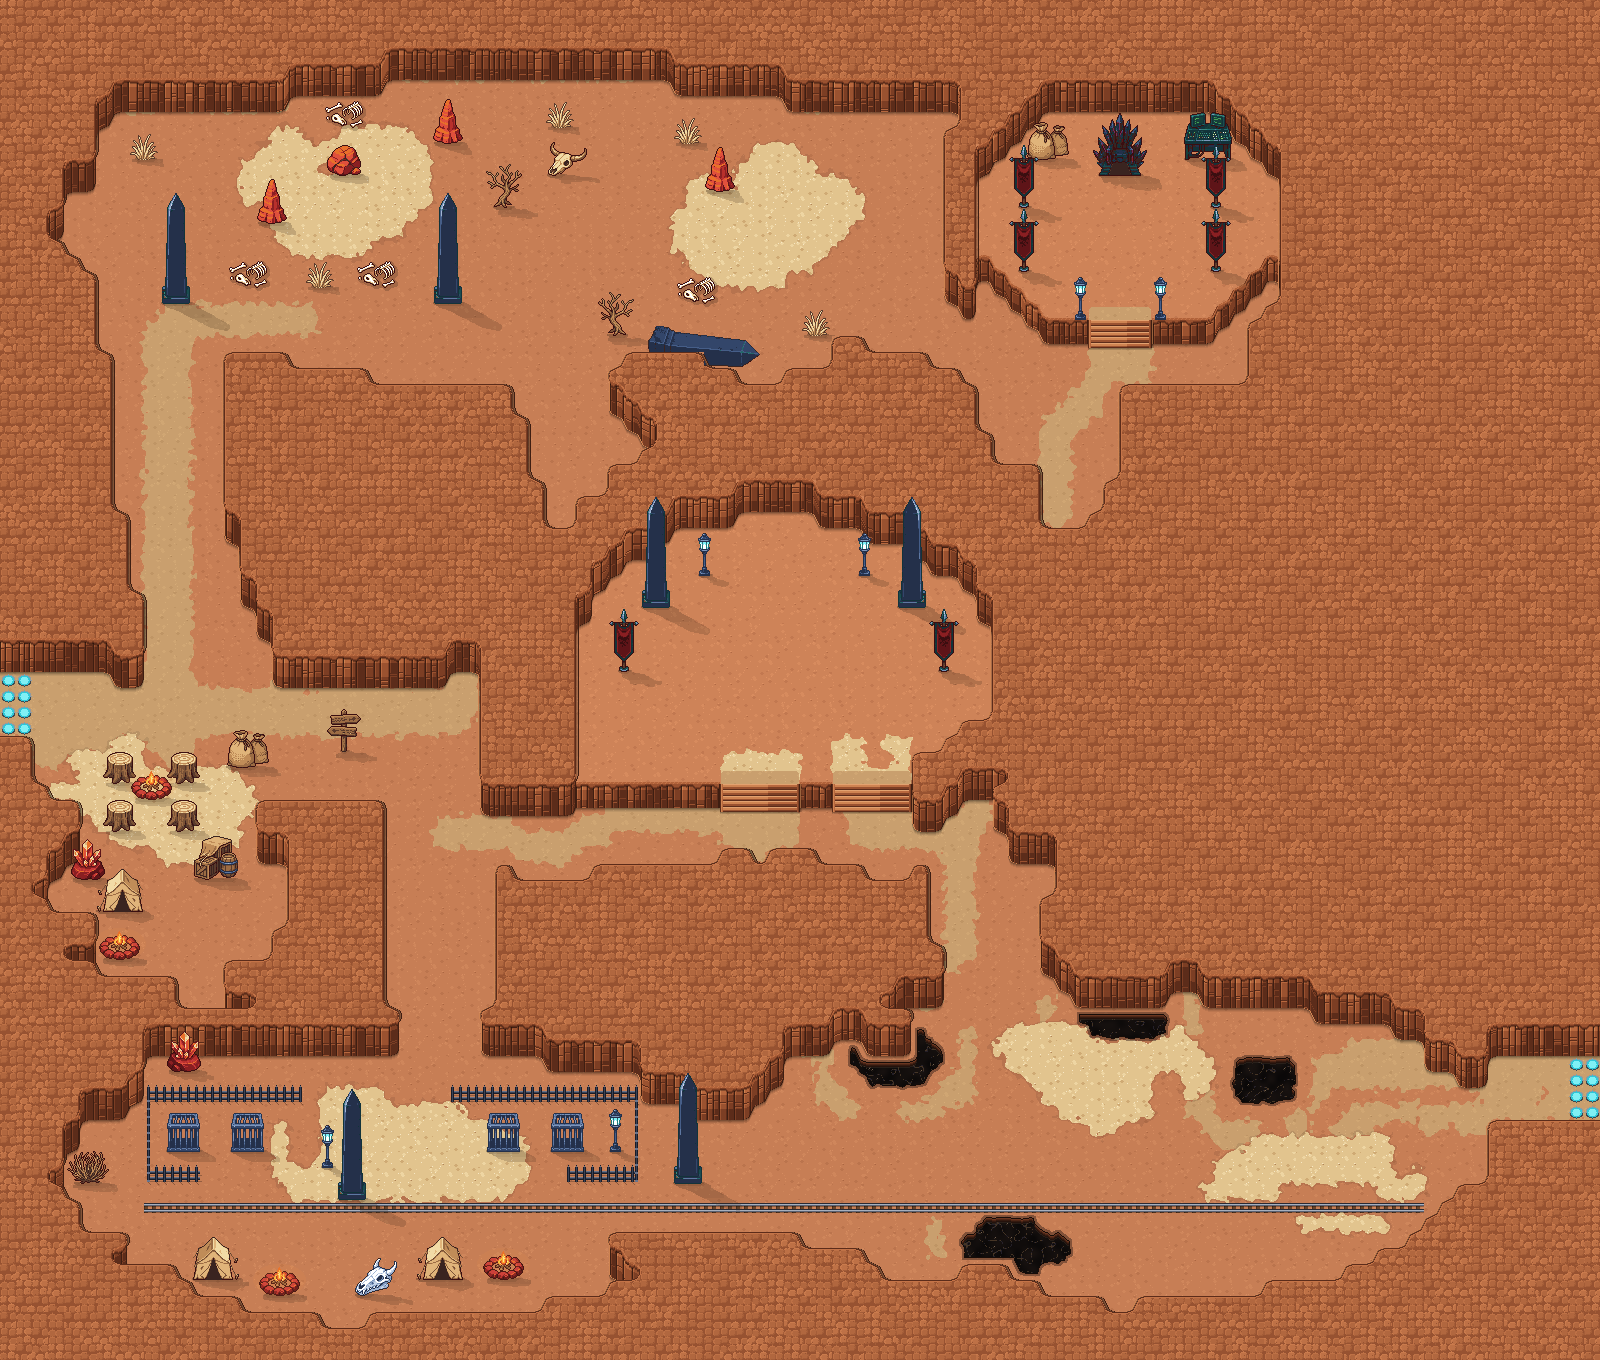
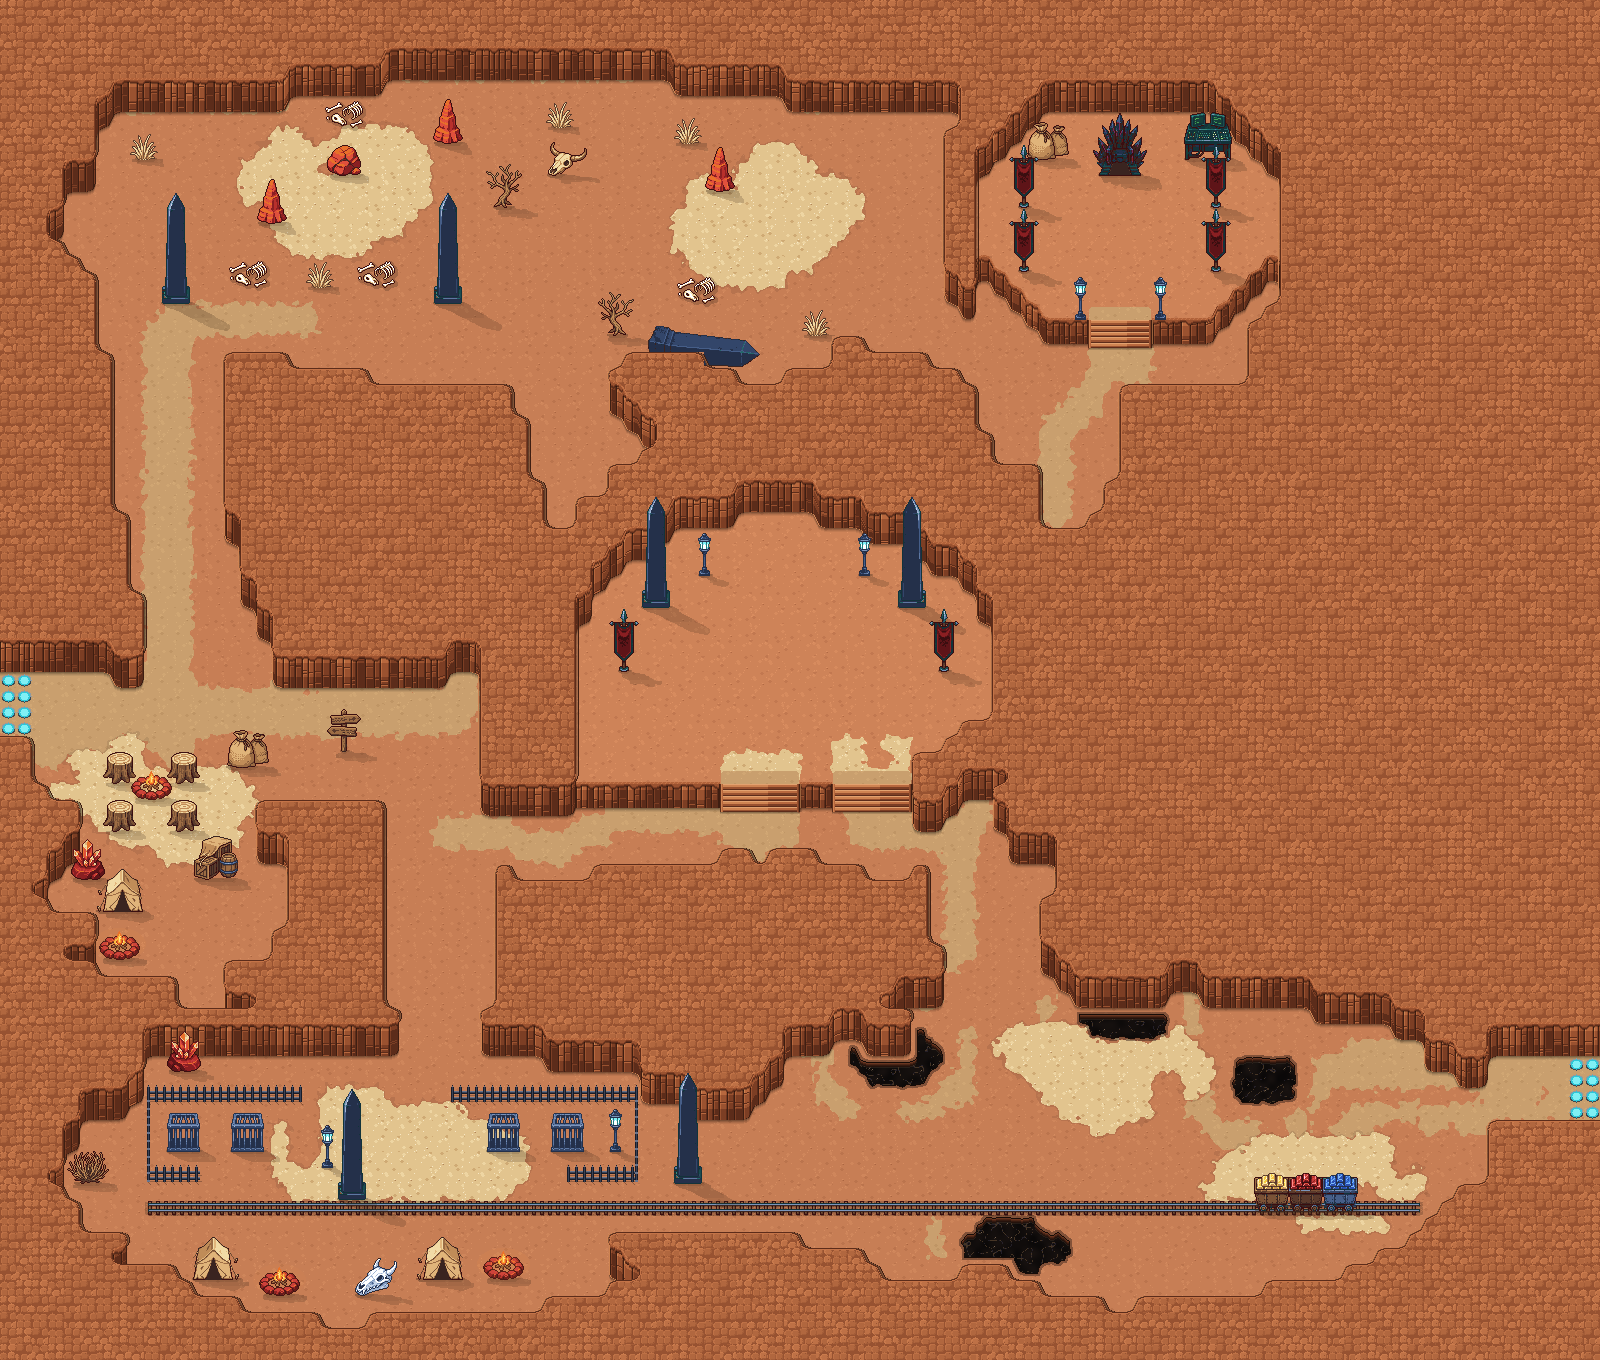
Karte 24: Gleis neu im Stil der Loren, drei Loren mit Gold-, Rubin- und Saphirbarren (PixelLab k24_loren)
Claude-Session: https://claude.ai/code/session_01SaoYHKhnro4LFcPJqjaPsq

Changed region(s): [[0.0938, 0.8647, 0.9062, 0.8956]]

diff --git a/tools/karte24_objekte.py b/tools/karte24_objekte.py
@@ -30,6 +30,13 @@ def ohne_runen(sp):
                 a[y, x, :3] = a[nb[0]][:3]; run[y, x] = False; stein[y, x] = True
     return Image.fromarray(a.astype(np.uint8))
 
+def ohne_gleis(sp):
+    """Loren-Sprite ohne das eingebaute Gleisstueck: nur Wagen und Raeder bleiben (Gleis kommt aus der Karte)."""
+    a = np.array(sp)
+    a[38:] = 0                                                   # Schiene und Schwellen unter den Raedern
+    a[26:, :5] = 0; a[26:, 37:] = 0                              # seitliche Schwellenpfosten
+    return Image.fromarray(a)
+
 ROOT = os.path.join(os.path.dirname(os.path.abspath(__file__)), '..')
 KARTE = os.path.join(ROOT, 'maps', 'karte24')
 OBJ = os.path.join(ROOT, 'assets', 'objekte', 'karte24')
@@ -93,7 +100,12 @@ ARENA_OBJ = (                                                   # reduziert (Nut
     + _pa(LATERNE, 80, 35, {'anim': 'lampe'})                   # Laternen neben den Obelisken
     + _pa(BANNER, 160, 41, {'anim': 'fahne'})                   # Banner an den Seiten
 )
-UNTEN_LINKS = UNTEN_LINKS + OBEN + SCHREIN_OBJ + ARENA_OBJ
+GOLD, RUBIN, SAPHIR = 'loren/00', 'loren/01', 'loren/02'
+GL = 75                                                         # Gleisreihe (layout 'gleis')
+LOREN = [(GOLD, 79.5, GL, {'px': 79 * T + 8, 'dy': -5, 'auf_gleis': True}),        # drei Loren hintereinander, rechts
+         (RUBIN, 81.6, GL, {'px': 81 * T + 10, 'dy': -5, 'auf_gleis': True}),       # wie in der Vorlage
+         (SAPHIR, 83.7, GL, {'px': 83 * T + 12, 'dy': -5, 'auf_gleis': True})]
+UNTEN_LINKS = UNTEN_LINKS + LOREN + OBEN + SCHREIN_OBJ + ARENA_OBJ
 
 
 def main():
@@ -110,6 +122,8 @@ def main():
             sp = saeubern(Image.open(os.path.join(OBJ, name + '.png')).convert('RGBA'))   # PixelLab-Splitter weg
             if name == OBELISK:
                 sp = ohne_runen(sp)
+            if name.startswith('loren/'):
+                sp = ohne_gleis(sp)
             if spiegeln:
                 sp = sp.transpose(Image.FLIP_LEFT_RIGHT)
             datei = 'varianten/%s%s.png' % (name.replace('/', '-'), '_m' if spiegeln else '')
@@ -126,7 +140,7 @@ def main():
         x = bx * T + (wt * T - bw) // 2 - ux0
         if 'px' in opt:                                              # pixelgenaue Mitte (Symmetrie zur Schreinachse)
             x = opt.pop('px') - (ux0 + bw // 2)
-        y = (ty + 1) * T - 1 - uy1
+        y = (ty + 1) * T - 1 - uy1 + opt.pop('dy', 0)
         fuss_y = y + uy1
         if not opt.get('hinter_fels') and (lvl[fuss_y, x + ux0 + bw // 2] not in (1, 2) or wand[fuss_y - 2:fuss_y + 1, x + ux0:x + ux1 + 1].any()):
             print('  uebersprungen (nicht auf dem Canyonboden):', name, fx, fy)

diff --git a/tools/karte24_bauen.py b/tools/karte24_bauen.py
@@ -120,16 +120,32 @@ def eisenzaun(img, rect, offen):
 
 
 def gleis(a, x0, x1, y):
-    """Lorenbahn waagerecht: Holzschwellen alle 8 px, zwei Stahlschienen mit Lichtkante."""
+    """Lorenbahn waagerecht im Stil der Loren-Sprites (PixelLab k24_loren): Schotterbett, Holzschwellen mit
+    dunkler Kontur und Lichtkante oben links, zwei blaugraue Stahlschienen. Die Enden laufen rund aus."""
     Y = y * T
-    for x in range(x0 * T, (x1 + 1) * T):
-        if x % 8 < 4:
-            a[Y + 3:Y + 13, x] = H('#6a4428') if x % 8 else H('#4a2e1a')
-    for ys in (Y + 4, Y + 10):
-        a[ys - 1, x0 * T:(x1 + 1) * T] = H('#2a2a34')
-        a[ys, x0 * T:(x1 + 1) * T] = H('#a8b0bc')
-        a[ys + 1, x0 * T:(x1 + 1) * T] = H('#5a6070')
-        a[ys + 2, x0 * T:(x1 + 1) * T] = (a[ys + 2, x0 * T:(x1 + 1) * T] * 0.7).astype(np.uint8)
+    X0, X1 = x0 * T + 4, (x1 + 1) * T - 4
+    rng = np.random.RandomState(24)
+    for yy in range(Y + 1, Y + 16):                                  # Schotterbett, etwas dunkler, gesprenkelt
+        for xx in range(X0 - 3, X1 + 3):
+            if (yy in (Y + 1, Y + 15)) and (xx < X0 or xx >= X1):
+                continue
+            f = 0.82 if rng.rand() < 0.75 else (0.68 if rng.rand() < 0.5 else 0.95)
+            a[yy, xx] = (a[yy, xx] * f).astype(np.uint8)
+    KO, HO, HL, HD = (58, 14, 16), (122, 82, 54), (150, 106, 70), (92, 58, 38)
+    for x in range(X0, X1 - 3, 8):                                   # Schwellen 4 px breit, 12 px lang
+        a[Y + 1:Y + 15, x:x + 4] = KO                                # Schwelle ragt oben und unten ueber die Schienen
+        a[Y + 2:Y + 14, x + 1:x + 3] = HO
+        a[Y + 2, x + 1:x + 3] = HL
+        a[Y + 2:Y + 14, x + 1] = HL
+        a[Y + 13, x + 1:x + 3] = HD
+        a[Y + 15, x + 1:x + 4] = (a[Y + 15, x + 1:x + 4] * 0.7).astype(np.uint8)   # Schatten unter der Schwelle
+    for ys in (Y + 4, Y + 10):                                       # Schienen schmal: Kontur, Lauffläche, Unterseite
+        a[ys - 1, X0:X1] = (18, 51, 58)
+        a[ys, X0:X1] = (124, 149, 187)
+        a[ys + 1, X0:X1] = (58, 36, 32)
+        a[ys + 2, X0:X1] = (a[ys + 2, X0:X1] * 0.78).astype(np.uint8)   # Schlagschatten der Schiene
+        for xe in (X0, X1 - 1):                                      # Schienenenden mit Kontur
+            a[ys - 1:ys + 2, xe] = (18, 51, 58)
 
 
 def bauen(frame=None, speichern=True):

diff --git a/tools/pixellab_objekte.py b/tools/pixellab_objekte.py
@@ -1791,6 +1791,12 @@ OBJEKTGRUPPEN_K21 = {   # Karte 21 (Digi-Egg Valley), Stil wie Karte 20 / Karte 
         'very long toppled dark navy black stone obelisk lying flat on its side on the ground, pointed tip on the right, '
         'broken base on the left, plain smooth stone without runes, seen from slightly above, ' + FR14,
     ]},
+    'k24_loren': {'size': 48, 'items': [
+        'iron mine cart on small rail wheels, dark riveted steel body, heaped full of shiny stacked gold ingot bars, ' + FR14,
+        'iron mine cart on small rail wheels, dark riveted steel body, heaped full of stacked deep red ruby bars shaped like ingots, ' + FR14,
+        'iron mine cart on small rail wheels, dark riveted steel body, heaped full of stacked deep blue sapphire bars shaped like ingots, ' + FR14,
+        'iron railway buffer stop bumper at the end of a mine rail track, dark steel with a red and white striped plate, ' + FR14,
+    ]},
     'k24_schrein': {'size': 64, 'items': [
         'dark emperor throne made of jagged black obsidian crystal spikes with deep purple and crimson highlights, a high '
         'pointed back, standing on a small stepped dark stone dais, ' + FR14,
